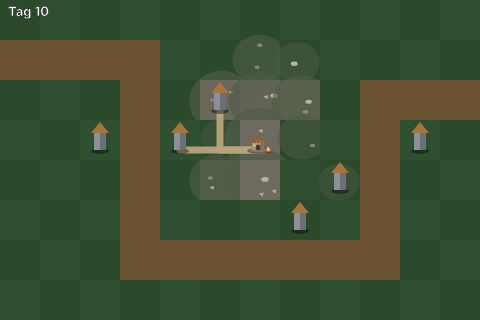
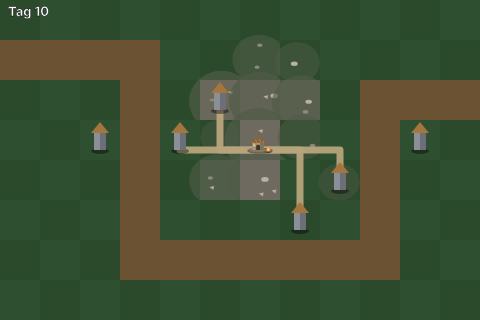
Welt-Entwurf: Wege passend zu 3-5 frühen Türmen
Claude-Session: https://claude.ai/code/session_012Nsno37nEjc4wateER8C5H

Changed region(s): [[0.5625, 0.4375, 0.7188, 0.6562]]

diff --git a/tools/dorf/dorf.html b/tools/dorf/dorf.html
@@ -159,9 +159,9 @@ const TOW=[[4,3],[5,2],[8,4],[7,5],[2,3],[10,3]];             // Türme, nach Ab
 const VIL=[6,3];
 const STG=[
  {t:'Tag 1',v:0,R:0,np:0,pave:0},
- {t:'Tag 10',v:2,R:2.0,np:2,pave:0},
- {t:'Tag 22',v:4,R:3.6,np:4,pave:0},
- {t:'Tag 36',v:5,R:5.2,np:5,pave:1},
+ {t:'Tag 10',v:2,R:2.0,np:4,pave:0},
+ {t:'Tag 22',v:4,R:3.6,np:5,pave:0},
+ {t:'Tag 36',v:5,R:5.2,np:6,pave:1},
  {t:'Tag 42',v:6,R:7.5,np:6,pave:2}];
 function welt(k,si){
  const W=WORLD[k],S=STG[si],T=40; let b='';
@@ -201,7 +201,7 @@ function welt(k,si){
  b+=`<text x="8" y="16" font-size="13" font-weight="700" fill="${k==='e'?'#2f5a78':'#fff'}" stroke="${k==='e'?'#fff':'#000'}" stroke-width=".4">${S.t}</text>`;
  return svg('0 0 480 320',480,320,b);
 }
-h+=`<h2>4 · Welt um das Dorf: Boden wandelt sich, Wege wachsen (Vorschlag 27.10.)</h2><p class="n">Ausschnitt 12 × 8 Felder. Braun = Monsterweg (bleibt unverändert, immer gut erkennbar). Vom Dorf aus wächst der Boden in Ringen zum Element um (Asche, Schnee, Violett, Geröll), unregelmäßig, nicht kreisrund. Wege: Tag 10 Trampelpfade zu 2 Türmen, Tag 22 zu 4, Tag 36 gepflasterte Straße zu 5, Tag 42 Straße mit Rand zu allen.</p>`;
+h+=`<h2>4 · Welt um das Dorf: Boden wandelt sich, Wege wachsen (Vorschlag 27.10.)</h2><p class="n">Ausschnitt 12 × 8 Felder. Braun = Monsterweg (bleibt unverändert, immer gut erkennbar). Vom Dorf aus wächst der Boden in Ringen zum Element um (Asche, Schnee, Violett, Geröll), unregelmäßig, nicht kreisrund. Wege: Tag 10 Trampelpfade zu 4 Türmen, Tag 22 zu 5, Tag 36 gepflasterte Straße zu allen 6, Tag 42 Straße mit Rand zu allen.</p>`;
 for(const k of KS){h+=`<div class="row"><div class="lab">${SN[k]}</div>`;for(let i=0;i<5;i++)h+=cell(`welt-${k}-${i}`,STG[i].t,welt(k,i));h+='</div>';}
 out.innerHTML=h;
 </script>

diff --git a/team/IDEEN.md b/team/IDEEN.md
@@ -19,4 +19,4 @@ Format: **Idee** – von wem, wann – Stand (offen · dafür · verworfen) – 
 
 - **Feuer: Brennen schwächer, Direktschaden höher** (L, 18.10.): Brennende Monster sterben oft erst beim Nachbarn, Kill und Kopfgeld gehen an ihn. Eigene Kills machen mehr Spaß. Alternative: Kopfgeld für Brand-Kills an den Spieler, der angezündet hat. Noch nicht beschlossen, erst im Bot messen.
 
-- Dorf-Welt (27.10., F): Boden um das Dorf wandelt sich stufenweise zur Element-Welt (Asche/Lava, Schnee, Violett, Geröll), Wege wachsen vom Dorf zu den Türmen (Trampelpfad (Tag 10: 2 Türme, Tag 22: 4) → Straße (Tag 36) → Straße mit Rand (Tag 42) → gepflastert). Entwurf: assets/dorf-entwurf/_welt-uebersicht.png (Quelle tools/dorf/dorf.html, Abschnitt 4). Offen: nur Optik oder Spielwirkung? Lesbarkeit von Monsterweg/Gelände.
+- Dorf-Welt (27.10., F): Boden um das Dorf wandelt sich stufenweise zur Element-Welt (Asche/Lava, Schnee, Violett, Geröll), Wege wachsen vom Dorf zu den Türmen (Trampelpfad (Tag 10: 4 Türme, Tag 22: 5) → Straße (Tag 36) → Straße mit Rand (Tag 42) → gepflastert). Entwurf: assets/dorf-entwurf/_welt-uebersicht.png (Quelle tools/dorf/dorf.html, Abschnitt 4). Offen: nur Optik oder Spielwirkung? Lesbarkeit von Monsterweg/Gelände.
